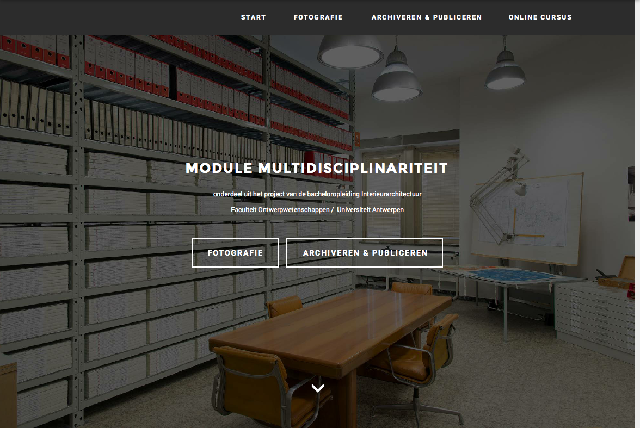
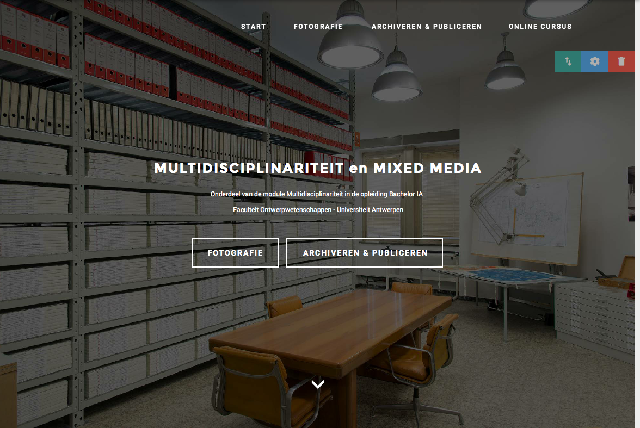
aanpassingen

diff --git a/index.html b/index.html
@@ -17,7 +17,7 @@
   
 </head>
 <body>
-<section class="engine"><a rel="nofollow" href="http://mobirise.com">Mobirise web development software</a></section>
+<section class="engine"><a rel="nofollow" href="http://mobirise.com">Mobirise website builder</a></section>
 <section class="mbr-navbar mbr-navbar--freeze mbr-navbar--absolute mbr-navbar--transparent mbr-navbar--sticky mbr-navbar--auto-collapse" id="menu-0">
     <div class="mbr-navbar__section mbr-section">
         <div class="mbr-section__container container">
@@ -42,8 +42,8 @@
             <div class="mbr-box mbr-box--stretched"><div class="mbr-box__magnet mbr-box__magnet--center-center">
                 <div class="row"><div class=" col-sm-8 col-sm-offset-2">
                     <div class="mbr-hero animated fadeInUp">
-                        <h1 class="mbr-hero__text">MODULE MULTIDISCIPLINARITEIT</h1>
-                        <p class="mbr-hero__subtext">onderdeel uit het project van de bacheloropleiding Interieurarchitectuur<br> Faculteit Ontwerpwetenschappen / &nbsp;Universiteit Antwerpen</p>
+                        <h1 class="mbr-hero__text">MULTIDISCIPLINARITEIT en MIXED MEDIA</h1>
+                        <p class="mbr-hero__subtext">Onderdeel van de module Multidisciplinariteit in de opleiding Bachelor IA <br>&nbsp;Faculteit Ontwerpwetenschappen - Universiteit Antwerpen</p>
                     </div>
                     <div class="mbr-buttons btn-inverse mbr-buttons--center"><a class="mbr-buttons__btn btn btn-lg animated fadeInUp delay btn-default" href="index.html#header3-5">FOTOGRAFIE</a> <a class="mbr-buttons__btn btn btn-lg btn-default animated fadeInUp delay" href="index.html#header3-7">ARCHIVEREN &amp; PUBLICEREN</a></div>
                 </div></div>

diff --git a/page1.html b/page1.html
@@ -16,7 +16,7 @@
   
 </head>
 <body>
-<section class="engine"><a rel="nofollow" href="http://mobirise.com">Mobirise website building software</a></section>
+<section class="engine"><a rel="nofollow" href="http://mobirise.com">Mobirise responsive website builder</a></section>
 
   <script src="assets/jquery/jquery.min.js"></script>
   <script src="assets/bootstrap/js/bootstrap.min.js"></script>
